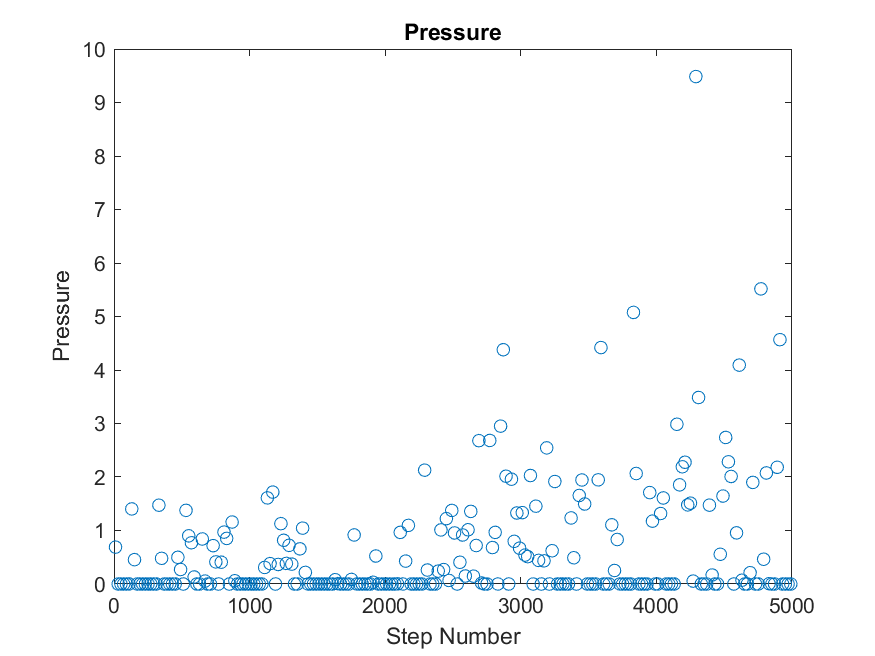
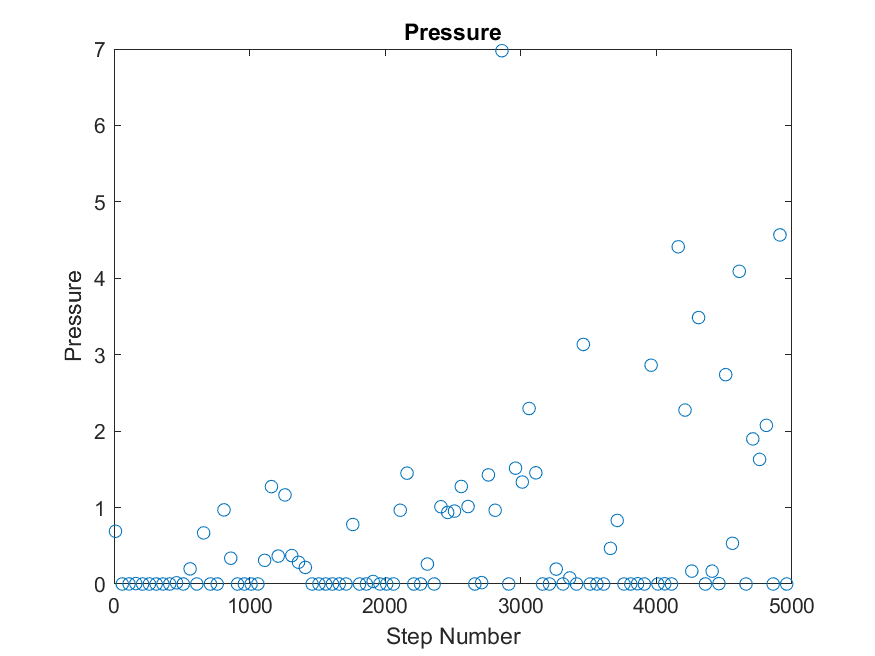
Added the mean free path graphs

diff --git a/src/updateGraphs.m b/src/updateGraphs.m
@@ -29,13 +29,27 @@ function [graphData] = updateGraphs(x, v, box, k, graphData, collisionCount, Fwa
 
 
     %% Mean Free Path
-    % dist = zeros(1, length(x));
-    % for i = length(x)
-    %     [dist(i), ~] = particleDistanceCalc(x(:, i), graphData.oldPosition(:, i));
-    % end
-    % dist = sqrt((a(1, :)-b(1, :)).^2 + (a(2, :) - b(2, :)).^2);
-    % graphData.distance = graphData.distance + dist;
-    % graphData.oldPosition = x;
-    % graphData.collisionCount = collisionCount;
+    % Keep track of the number of collisions each particle has
+    wallCollisionsCount = (Fwall(1, :) ~= 0) | (Fwall(2, :) ~= 0);
+    particleCollisionsCount = collisionCount';
+    totalCollisionCount = wallCollisionsCount + particleCollisionsCount;
+    graphData.collisions = graphData.collisions + totalCollisionCount;
+
+    % Keep track of the distance each particle travels
+    oldX = graphData.oldPosition;
+    graphData.oldPosition = x;
+    
+    dist = sqrt((x(1, :)-oldX(1, :)).^2 + (x(2, :) - oldX(2, :)).^2);
+    graphData.distance = graphData.distance + dist;
+
+
+    % % % % % % % dist = zeros(1, length(x));
+    % % % % % % % for i = length(x)
+    % % % % % % %     [dist(i), ~] = particleDistanceCalc(x(:, i), graphData.oldPosition(:, i));
+    % % % % % % % end
+    % % % % % % % dist = sqrt((a(1, :)-b(1, :)).^2 + (a(2, :) - b(2, :)).^2);
+    % % % % % % % graphData.distance = graphData.distance + dist;
+    % % % % % % % graphData.oldPosition = x;
+    % % % % % % % graphData.collisionCount = collisionCount;
 end
 

diff --git a/src/drawGraphs.m b/src/drawGraphs.m
@@ -1,4 +1,4 @@
-function [none] = drawGraphs(graphData)
+function drawGraphs(graphData)
     %% Temperature
     figure(2)
     plot(graphData.temperature(1, :), graphData.temperature(end, :), 'o')
@@ -28,7 +28,7 @@ function [none] = drawGraphs(graphData)
     figure(5)
     % Calculate the average pressure over every 20 timesteps
     averagePressure = [];
-    for i = 1:20:length(graphData.pressure)
+    for i = 1:50:length(graphData.pressure)
         pressureSum = sum(graphData.pressure(2, i:i+19));
         averagePressure(:, end+1) = [i + 10, pressureSum / 20];
     end
@@ -40,5 +40,8 @@ function [none] = drawGraphs(graphData)
     title('Pressure')
 
     %% Mean Free Path
-    % TODO: Do this
+    figure(6)
+
+    histogram(graphData.distance ./ graphData.collisions)
+    title('Mean Free Path')
 end

diff --git a/src/saveGraphs.m b/src/saveGraphs.m
@@ -1,4 +1,4 @@
-function [none] = saveGraphs(p, box, g, vIni, h, totalTime, wallMove)
+function saveGraphs(p, box, g, vIni, h, totalTime, wallMove)
     params = "p=" + p + "_g-" + g + "_vIni-" + vIni + ...
         "_h-" + h + "_totalTime-" + totalTime + "_boxwidth-" + ...
         (box.right - box.left) + "_boxheight-" + (box.up - box.low) + ...
@@ -18,4 +18,8 @@ function [none] = saveGraphs(p, box, g, vIni, h, totalTime, wallMove)
     % Save Pressure
     figure(5)
     saveas(gcf, "../Graphs/pressure__" + params)
+
+    % Save Mean Free Path
+    figure(6)
+    saveas(gcf, "../Graphs/mfp__" + params)
 end
